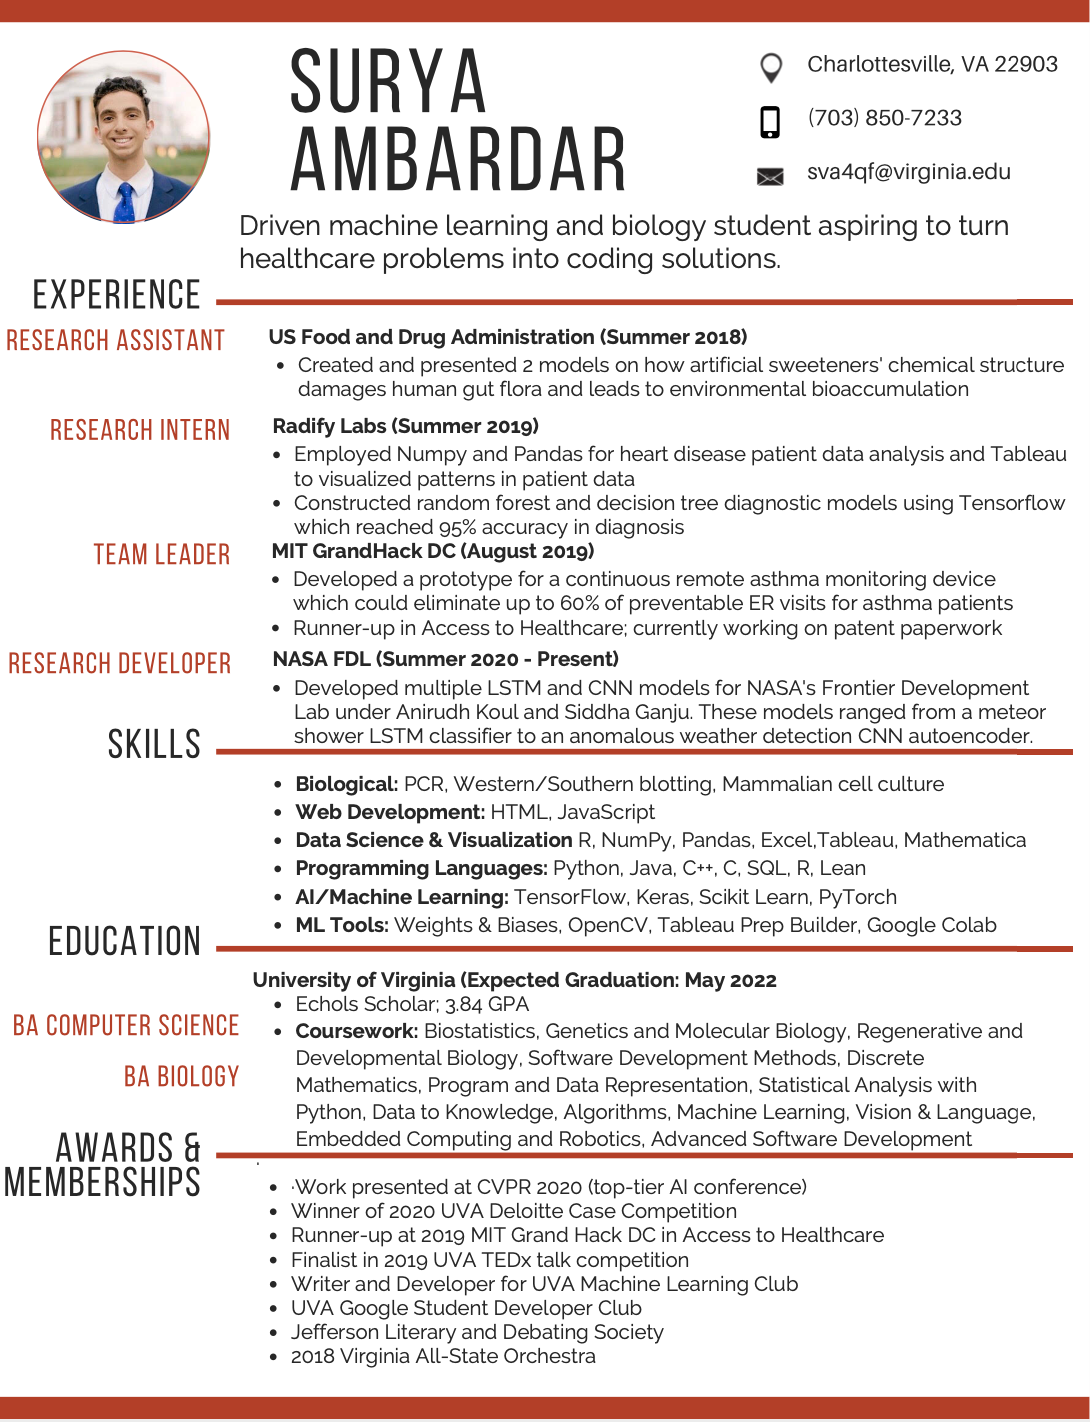
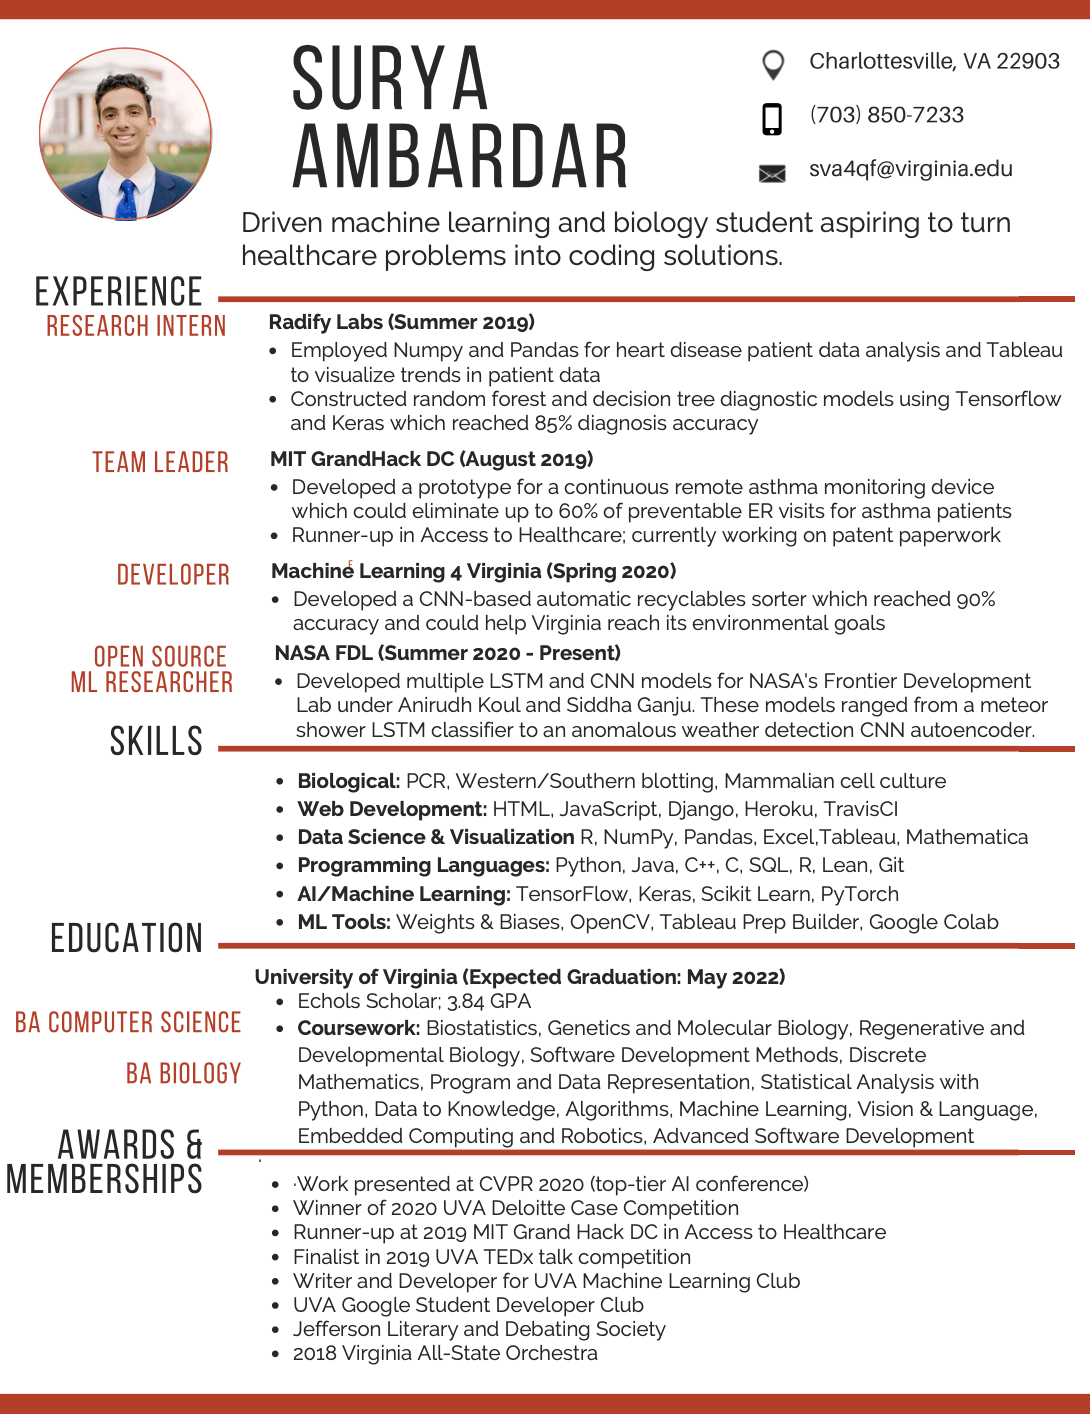
More tweaks
- updated resume
- added trashnet

diff --git a/index.html b/index.html
@@ -71,7 +71,12 @@
 									<p></p>
 								</section>
 								<section>
-									<h3>Researcher and Developer at NASA Frontier Development Labs (Summer 2020) </h3> 
+									<h3>Developer for Machine Learning 4 Virginia </h3>
+									<li>As a final ML4VA project, I developed a CNN-based automatic recyclables sorter which reached 90% accuracy and could help Virginia reach its environmental goals </li>
+									<p></p>
+								</section>
+								<section>
+									<h3>Open Source ML Researcher at NASA Frontier Development Labs (Summer 2020) </h3> 
 									<li>Developed a variety of sequence-to-sequence LSTM and CNN models for NASA's <a href="https://frontierdevelopmentlab.org">Frontier Development Lab</a> under mentorship from Anirudh Koul and Siddha Ganju. These models ranged from a LSTM meteor shower classifier to a multimodal CNN-based pedestrian trajectory predictor. </li>
 									<p></p>
 								</section>
@@ -99,6 +104,7 @@
 									<li>JavaScript</li>
 									<li>Django</li>
 									<li>Heroku</li>
+									<li>Travis CI</li>
 								</section>
 								<section>
 									<span class="icon solid major fa-terminal"></span>
@@ -110,6 +116,7 @@
 									<li>SQL</li>
 									<li>R</li>
 									<li>Lean</li>
+									<li>Git</li>
 								</section>
 								<section>
 									<span class="icon solid major fa-chart-area"></span>
@@ -233,10 +240,6 @@
 										<li>
 											<h3>Email</h3>
 											<p>sva4qf@virginia.edu</p>
-										</li>
-										<li>
-											<h3>Phone</h3>
-											<p>(703) 850-7233</p>
 										</li>
 										<li>
 											<h3>Social</h3>
